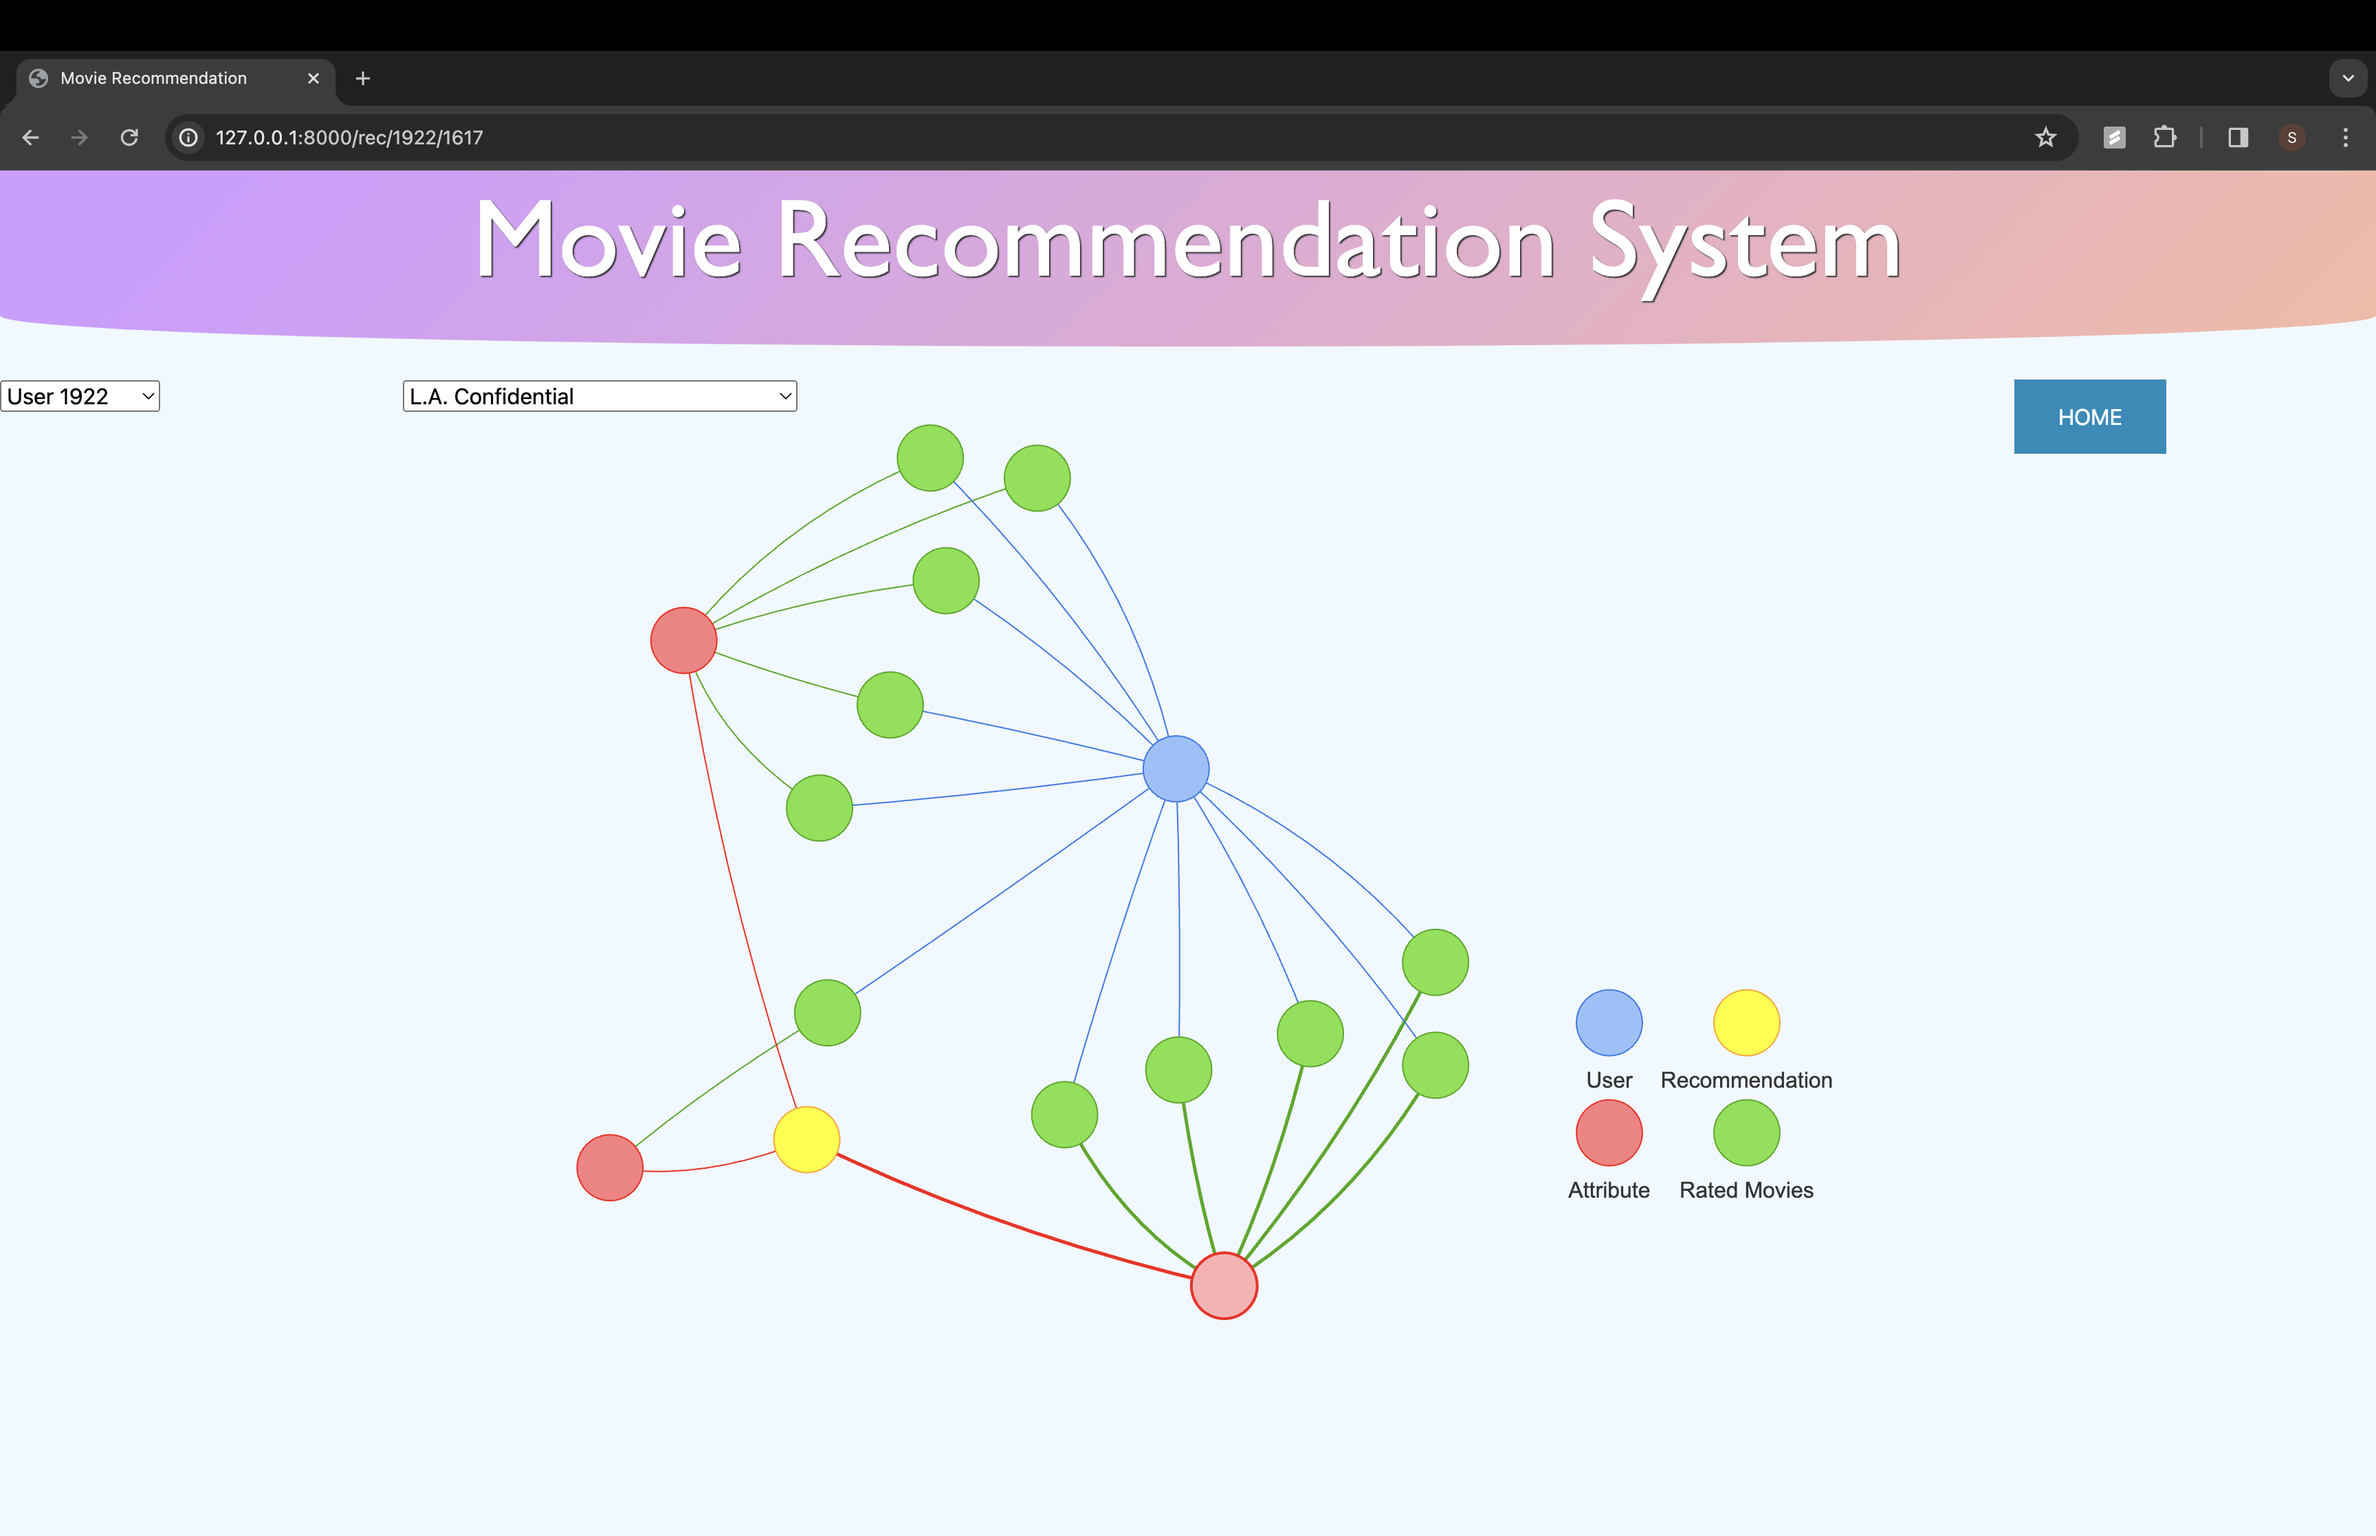
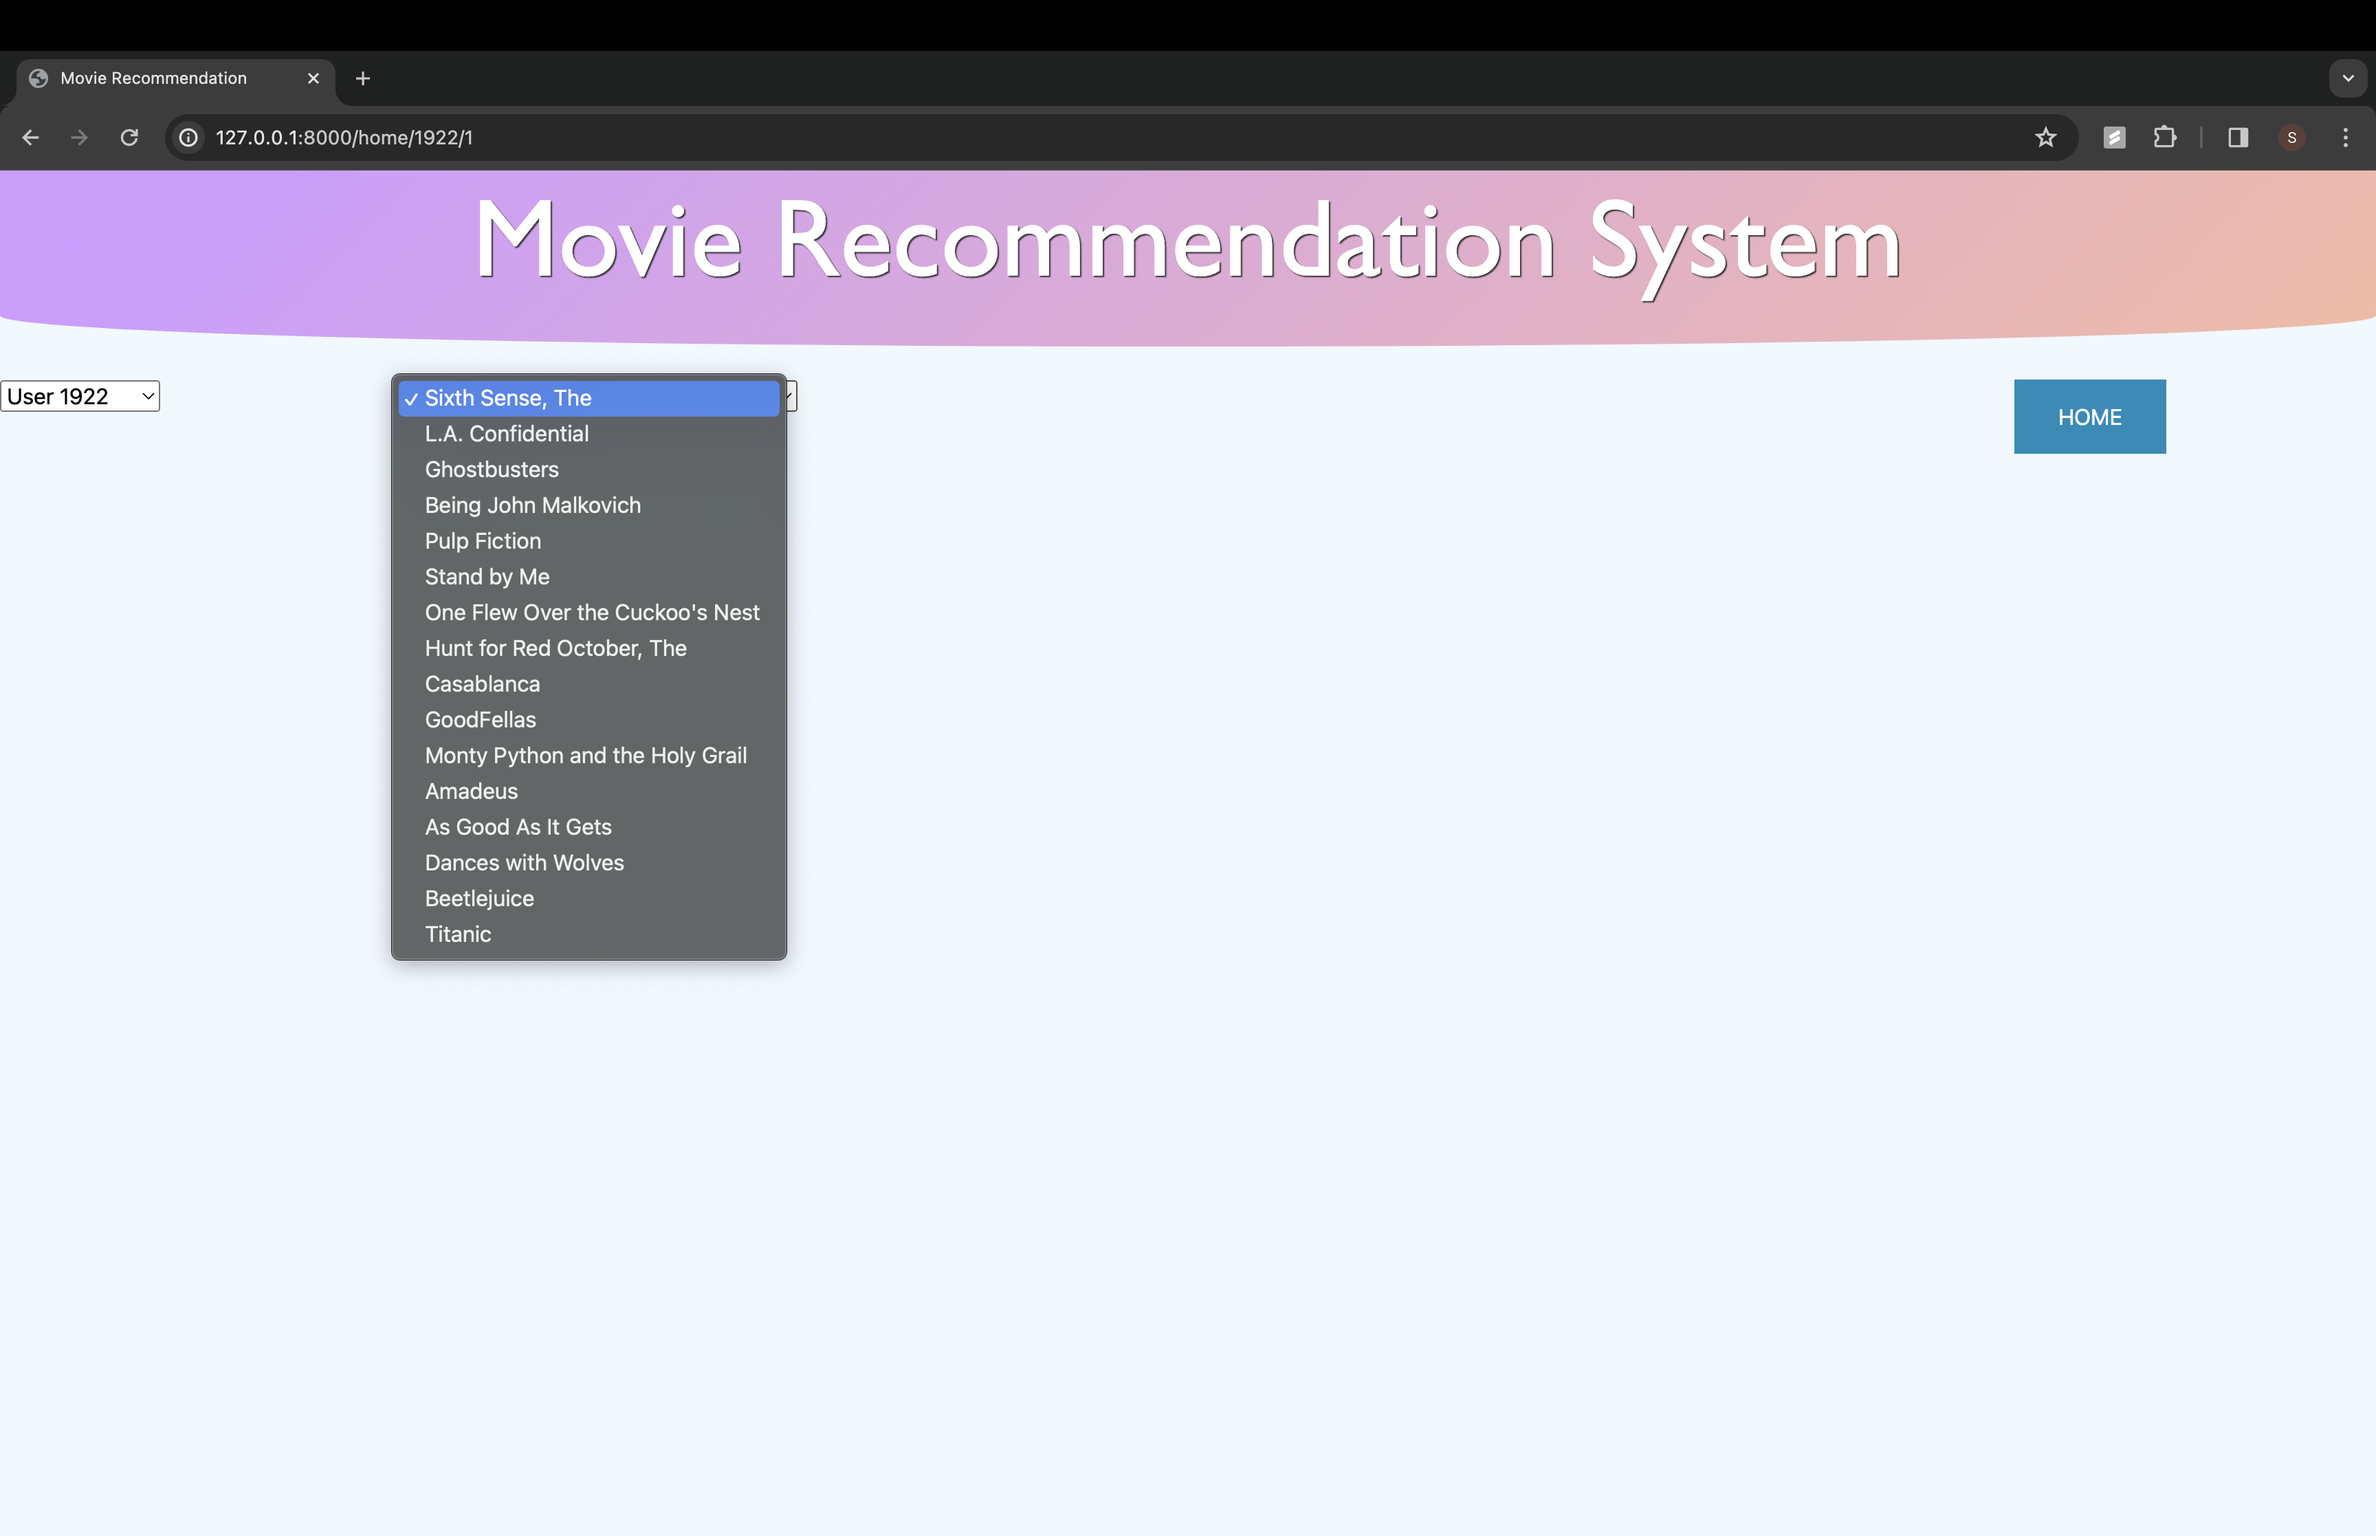
Updated Demo

diff --git a/README.md b/README.md
@@ -2,14 +2,16 @@
 User Interface for movie recommendations. 
 
 ## Demo
-1. Once the user is selected from the leftmost dropdown, all the movies recommended to that user will be shown in the 2nd dropdown. As shown in the below Images 1,2
-    ![My Image](images/Demo_4.png "Image 1")
-    ![My Image](images/Demo_3.png "Image 1")
-2. By selecting each movie, a fun interactive graph will be displayed explaining why this particular movie is recommended to that user on a high level
-3. Blue node is the user, Yellow node is the recommende movie, Green nodes are some of the movies watched and rated by that user. 
-4. Red nodes are some of the common attributes of recommended movie and movies watched by the user, which are factored in while generating recommendations 
-    ![My Image](images/Demo_1.png "Image 3")
-    ![My Image](images/Demo_2.png "Image 4")
+1. Home Page just displays some of the users and movies watched by those users in a graph format. Yellow nodes are users, Blue nodes are movies
+    ![My Image](images/Demo_5.png "Image 1")
+2. Once the user is selected from the leftmost dropdown, all the movies recommended to that user will be shown in the 2nd dropdown
+    ![My Image](images/Demo_4.png "Image 2")
+3. By selecting each movie, a fun interactive graph will be displayed explaining why this particular movie is recommended to that user on a high level
+    ![My Image](images/Demo_6.png "Image 3")
+4. Blue node is the user, Yellow node is the recommended movie, Green nodes are some of the movies watched and rated by that user. 
+5. Red nodes are some of the common attributes of recommended movie and movies watched by the user, which are factored in while generating recommendations 
+    ![My Image](images/Demo_1.png "Image 4")
+    ![My Image](images/Demo_2.png "Image 5")
 
 ## Requirements
 * Python 3.7
